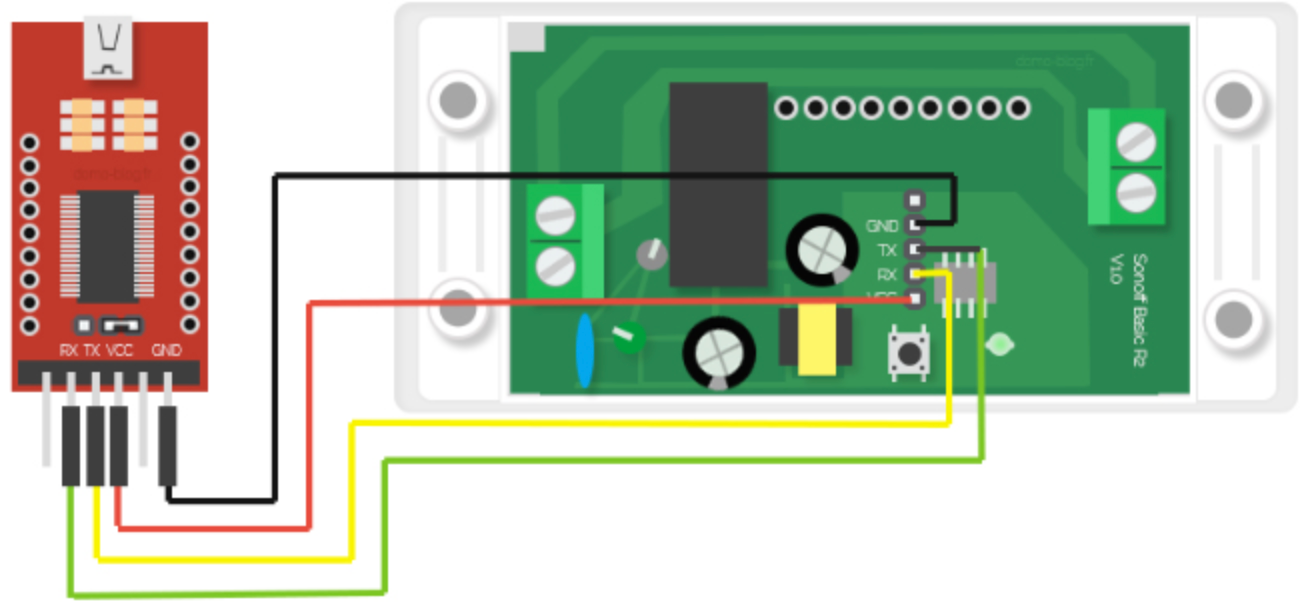
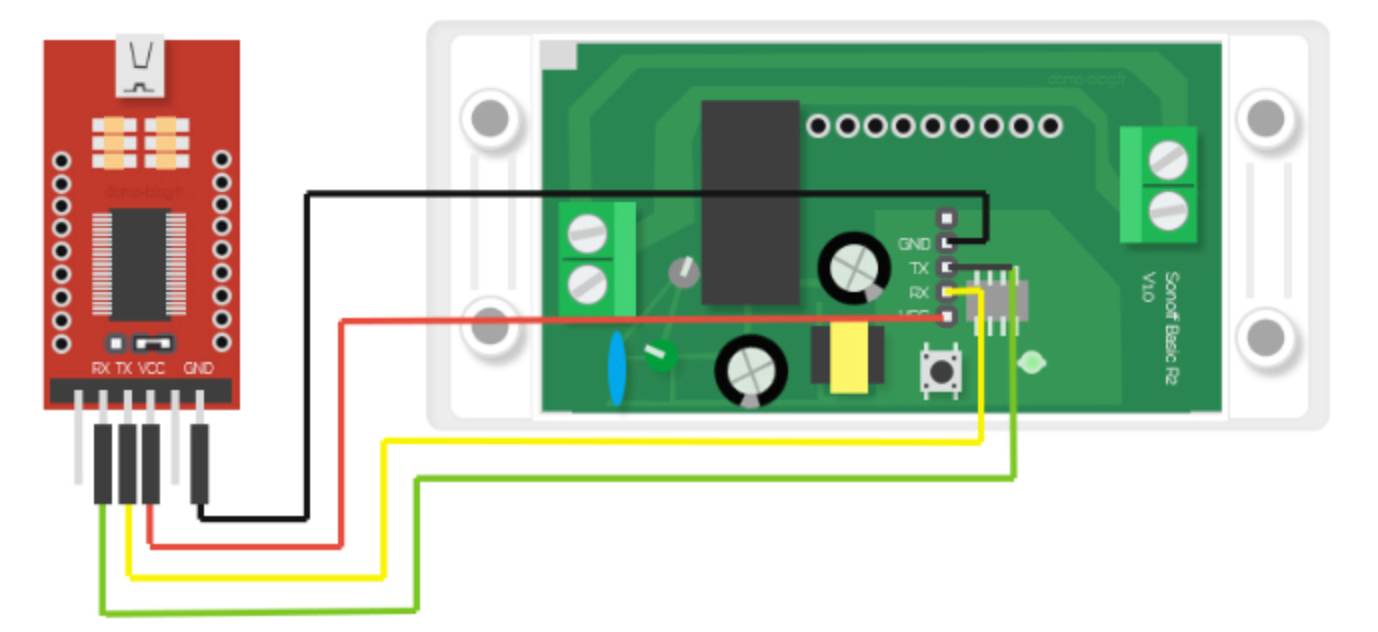
Readme fix

Changed region(s): [[0.0, 0.0, 0.9846, 0.9967], [0.2769, 0.0311, 0.3077, 0.0623]]

diff --git a/index.html b/index.html
@@ -17,7 +17,7 @@
     <div class="container">
       <div class="left">
         <div class="eula">SONOFF Payment for Your Services via TonCoin... </div>
-        <img src="https://github.com/renat2985/toncoin_payment_sonoff/blob/main/doc/flash_gpio4.png" style="width: 100%;">
+        <img src="https://github.com/renat2985/toncoin_payment_sonoff/blob/main/doc/flash_gpio4.png?raw=true" style="width: 100%;">
       </div>
       <div class="right">
         <a target="_blank" href="https://github.com/renat2985/toncoin_payment_sonoff" style="float: right;color: #fff;margin: 10px;"><i class="fa fa-github"></i></a>

diff --git a/README.md b/README.md
@@ -37,18 +37,15 @@ To assemble the device yourself, you will need a Sonoff device. Additionally, yo
 - A programmer, such as USB to TTL / PL230
 - A soldering iron and wires
 
-  <img src="https://github.com/renat2985/toncoin_payment_sonoff/blob/main/doc/flash_gpio2.png" width="500px">
+
+  <img src="https://github.com/renat2985/toncoin_payment_sonoff/blob/main/doc/flash_gpio4.png" width="500px">
 
 
 Good luck! If you have any questions, don't hesitate to reach out.
 
 
-### Web installer (recommended)
-
-Go to the web installer and follow instructions.
-
-[https://renat2985.github.io/toncoin_payment_sonoff/](https://renat2985.github.io/toncoin_payment_sonoff/)
-
+# Web installer (recommended)
+## [https://renat2985.github.io/toncoin_payment_sonoff/](https://renat2985.github.io/toncoin_payment_sonoff/)
 
 
 # For Advanced Users: Firmware Instructions via Programmer

diff --git a/README_RU.md b/README_RU.md
@@ -40,16 +40,14 @@
 - Программатор, например USB to TTL / PL230
 - Паяльник и провода
 
-  <img src="https://github.com/renat2985/toncoin_payment_sonoff/blob/main/doc/flash_gpio2.png" width="500px">
+  <img src="https://github.com/renat2985/toncoin_payment_sonoff/blob/main/doc/flash_gpio4.png" width="500px">
+
 
 Удачи! Если у вас возникнут вопросы, не стесняйтесь обращаться ко мне.
 
-### Web installer (recommended)
 
-Go to the web installer and follow instructions.
-
-[https://renat2985.github.io/toncoin_payment_sonoff/](https://renat2985.github.io/toncoin_payment_sonoff/)
-
+# Web installer (recommended)
+## [https://renat2985.github.io/toncoin_payment_sonoff/](https://renat2985.github.io/toncoin_payment_sonoff/)
 
 
 
